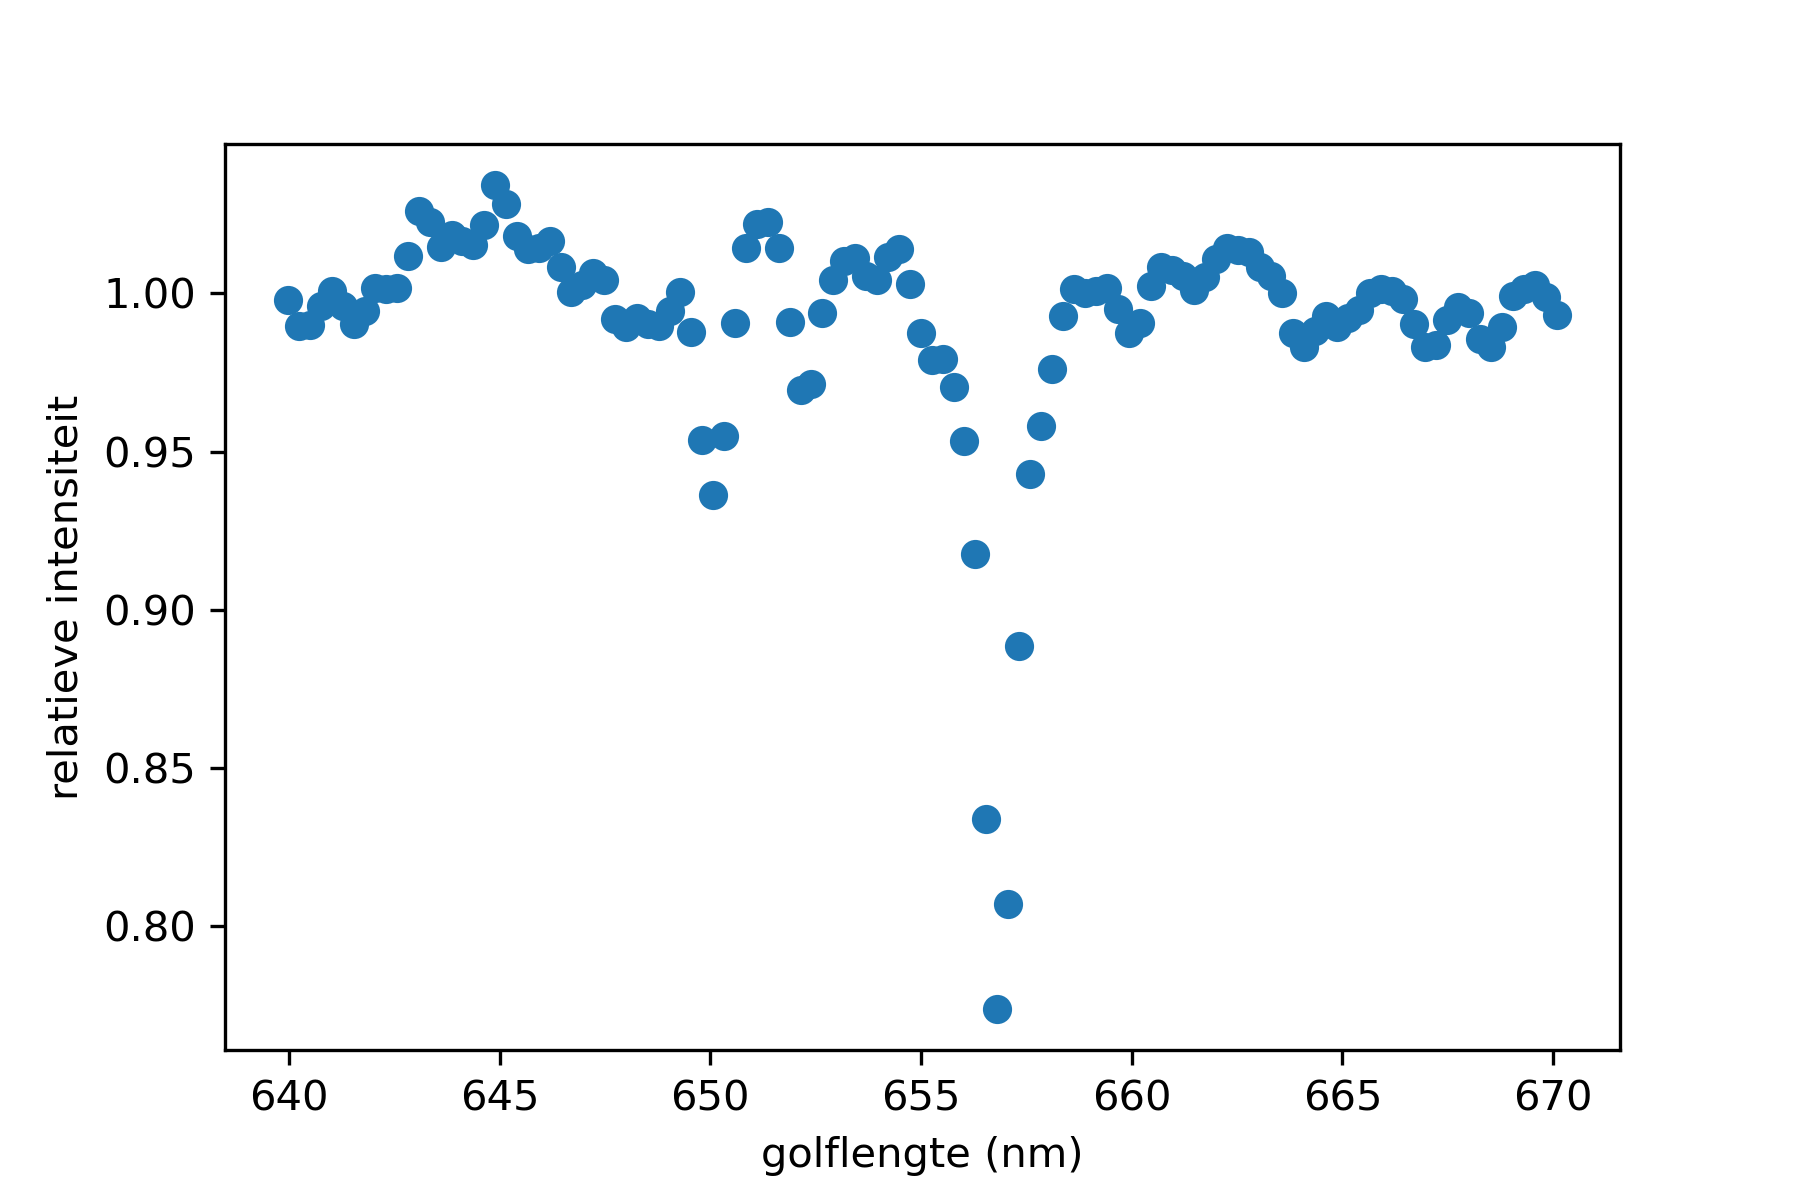
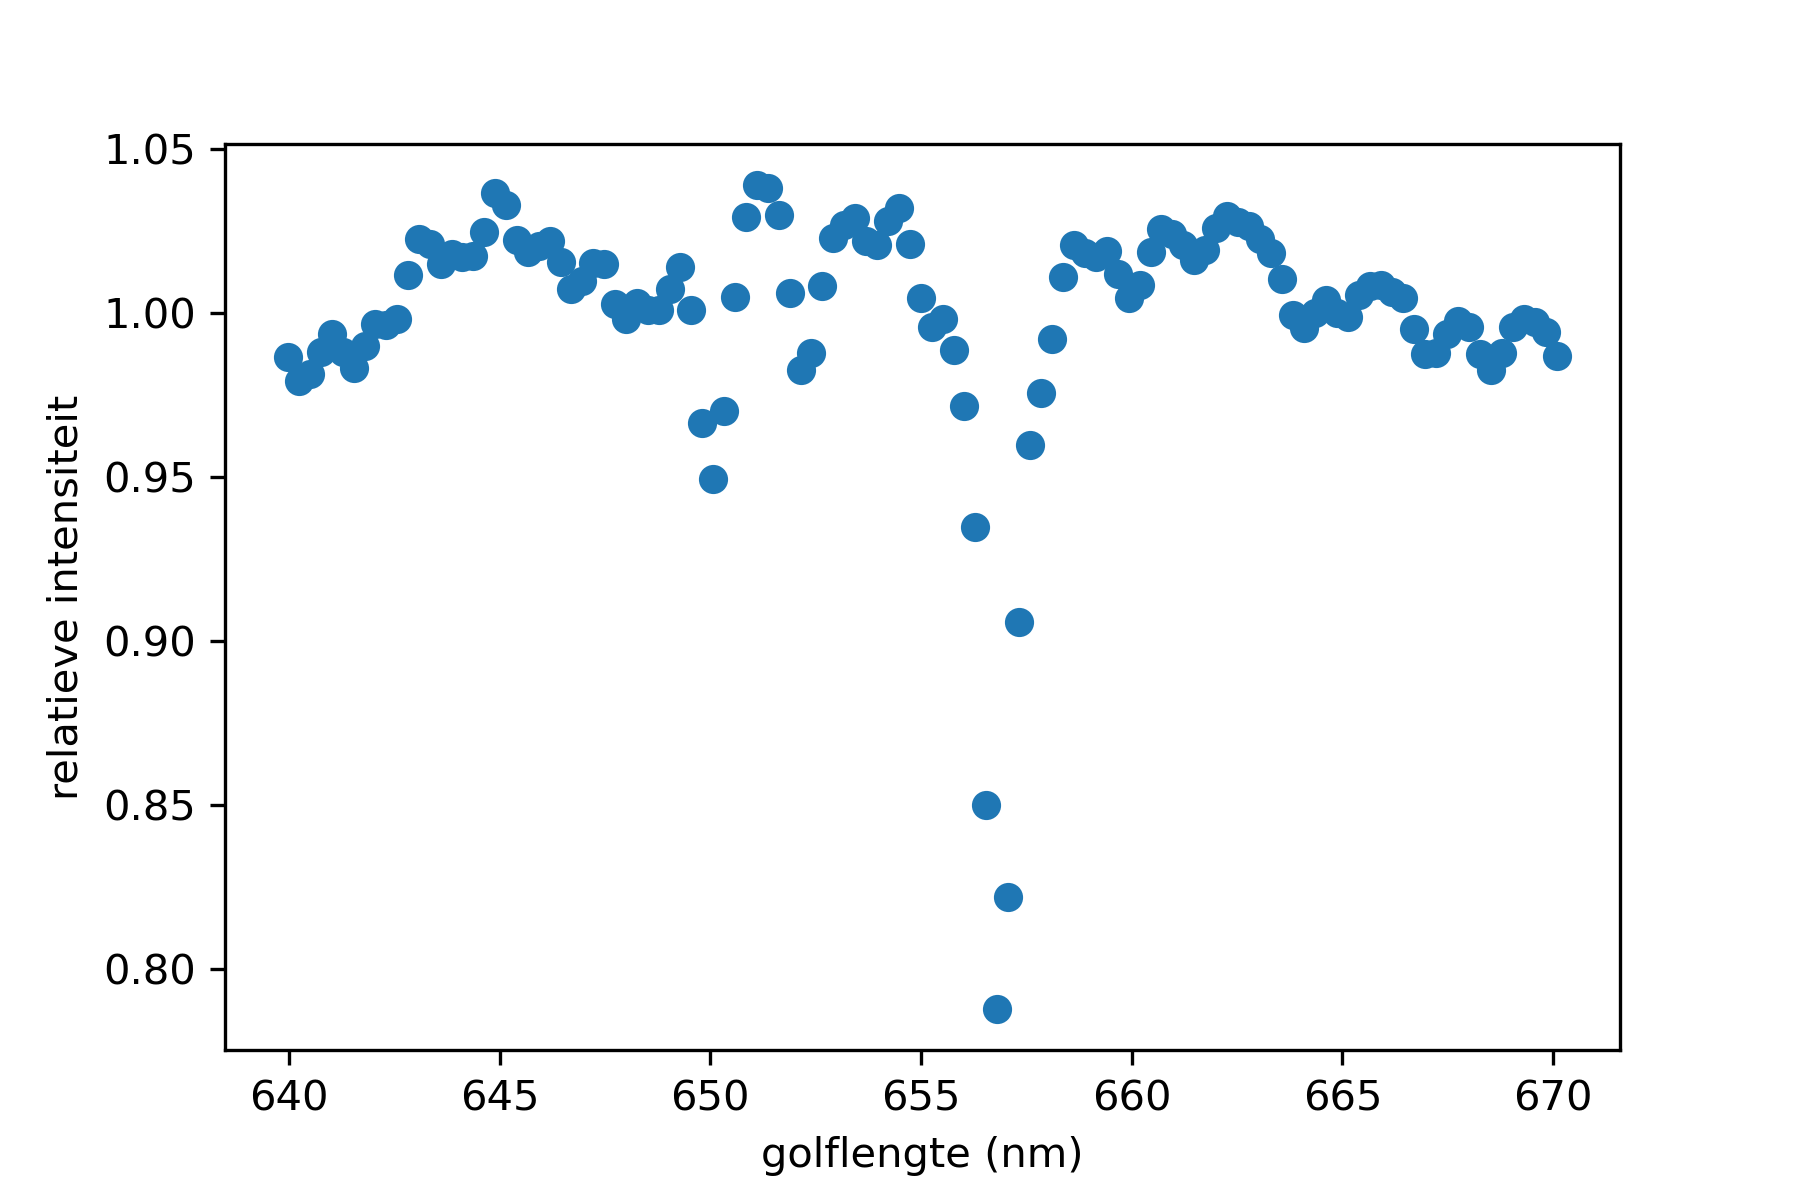
added first computation of area

diff --git a/equivalent_width_method.py b/equivalent_width_method.py
@@ -7,7 +7,6 @@ Created on Sun Nov 19 14:06:46 2023
 from normalize import Normalize
 # equivalent width method script
 import numpy as np
-from scipy.interpolate import make_interp_spline, BSpline
 import matplotlib.pyplot as plt
 from astropy.io import fits
 # MatPlotLib tools for drawing on plots.
@@ -15,19 +14,18 @@ import matplotlib.transforms as mtransforms
 from matplotlib.collections import PatchCollection
 from matplotlib.patches import Rectangle
 # AstroPy allows Python to perform common astronomial tasks.
-from astropy.io import fits
-from astropy import units as u
 from astropy.visualization import quantity_support
 quantity_support()
 # comes in handy when determinign the eq. width
 from lmfit.models import GaussianModel
 from scipy.signal import find_peaks
+from scipy.integrate import trapezoid
 from pathlib import Path
         
     
 data_folder = str('/home/gideon/Documents/NSP2/LISA data/Verschillende hoogtes/Sky_angles/Sky_angles')
 degrees = str('30')
-measurement=str('002')
+measurement=str('010')
 
 meting = Normalize(data_folder, degrees, measurement)
 meting.isolate(640,670)
@@ -83,8 +81,20 @@ def drop(x,y):
     y_crop = y[bool]
     x_crop = x[bool]
     return x_crop, y_crop
-def Riemann(x,y):
-    pass
+
+def trap(x,y):
+    
+    # transforms function for proper integral
+    y = -1*y + 1
+    
+    area = trapezoid(x=x, y=y)
+    return area
+
+x, y = drop(x,y)
+area = trap(x, y)
+
+print(area)
+    
 
 def polyfit(x,y):
     
